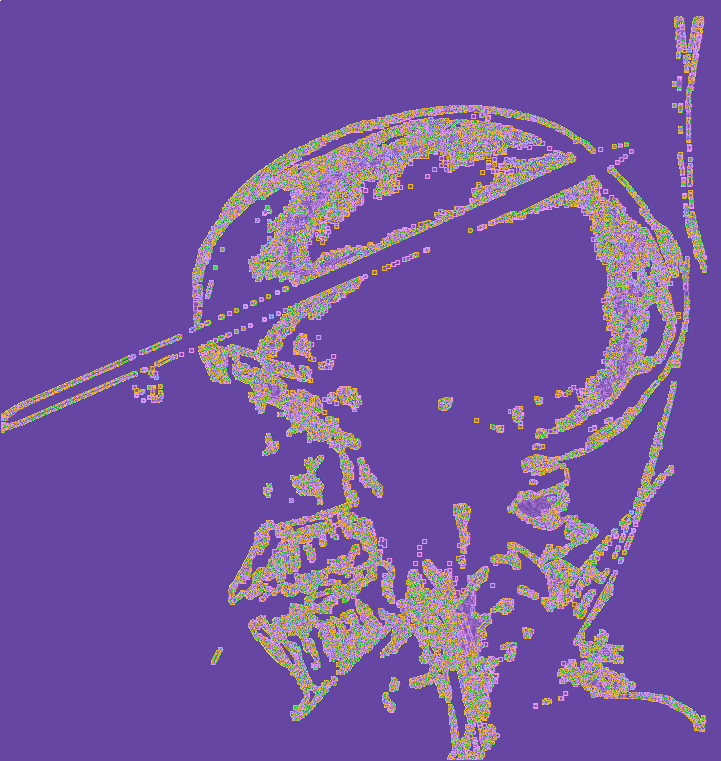
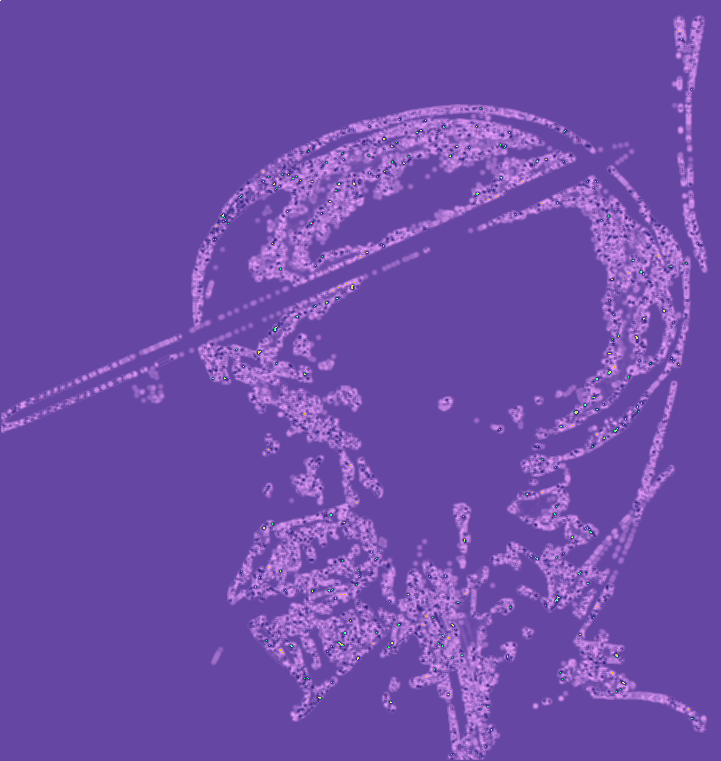
GSG

diff --git a/1course.c b/1course.c
@@ -163,9 +163,9 @@ int main() {
     char* data = (char*)malloc(n*w*h*sizeof(char));
 
     preparation(image, w, h);
-    fSobel(image, image_2, w, h);
-    //fGauss(image_0, image_2, w, h);
-    fSobel(image_2, image_1, w, h);
+    fGauss(image, image_0, w, h);
+    fSobel(image_0, image_2, w, h);
+    fGauss(image_2, image_1, w, h);
     colouring(image_1, data, w, h, n);
   /*  int* comps = (int*)malloc((n*w*h)*sizeof(int));
     for (i=0; i < w*h; i++) comps[i] = 0;
